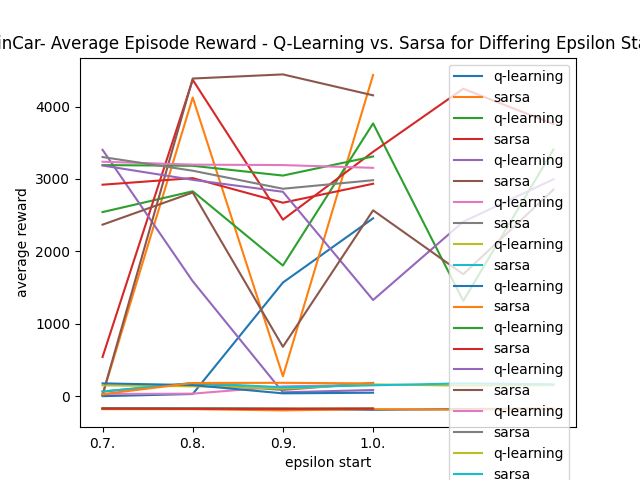
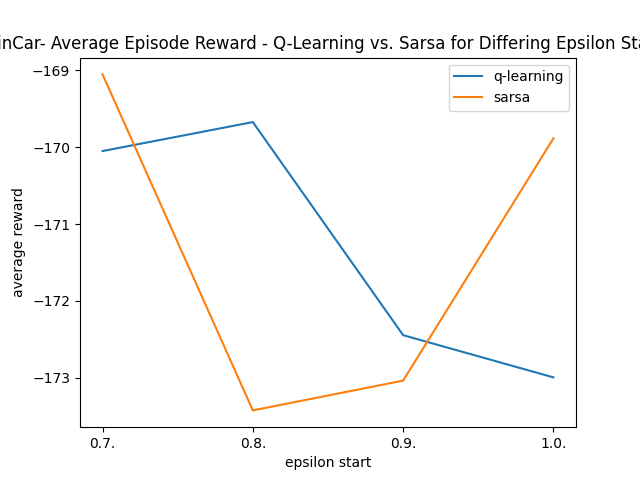
fixed error w visual

diff --git a/visualize.py b/visualize.py
@@ -26,6 +26,7 @@ def plotAndSave(data, xlabel, ylabel, title, location, show, xticks=None, yticks
     plt.savefig(location)
     if show:
         plt.show()
+    plt.clf()
 
 def plotAll(env, metric, analysis, show):
 
@@ -103,10 +104,10 @@ def main():
     for env in envs:
         for metric in metrics:
             for anal in analysis:
-                # print("Plotting:")
-                # print(env)
-                # print(metric)
-                # print(anal)
+                print("Plotting:")
+                print(env)
+                print(metric)
+                print(anal)
                 plotAll(env, metric, anal, show=False)
 
 main()
